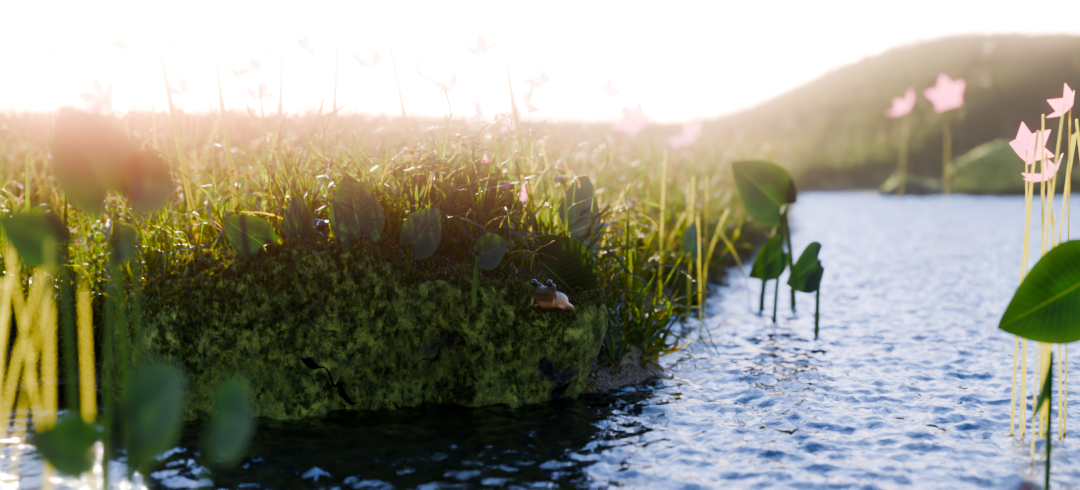
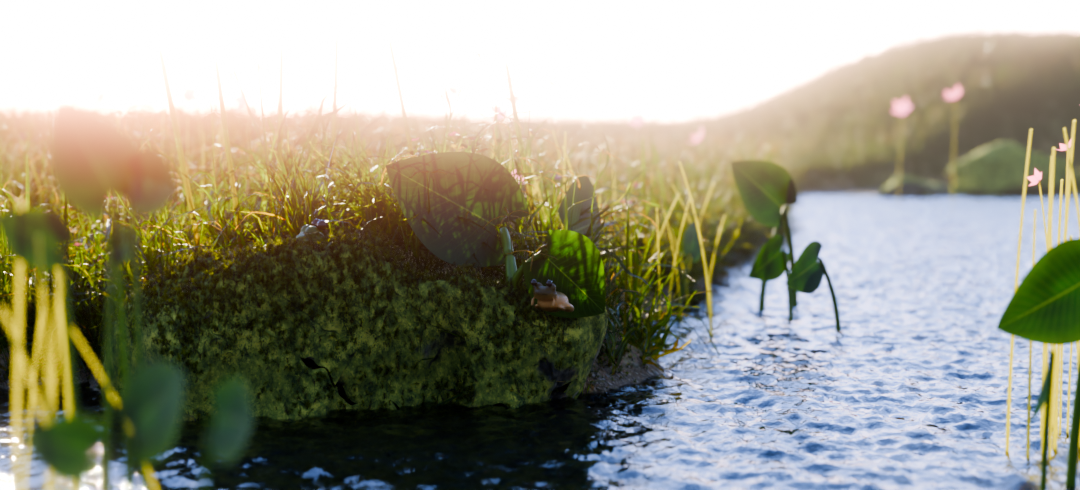
Creek scene: one taro plant with two big leaves on the rock, background flowers halved
Claude-Session: https://claude.ai/code/session_01K2jeMQuhDLuDxGG8CNrseQ

diff --git a/tools/creek/build_scene.py b/tools/creek/build_scene.py
@@ -836,9 +836,7 @@ TARO = [
     (265, 430, 0.42, 120, -15, 65),
     (60, 440, 0.4, 90, 160, 50),
     # centre, on the bank right of the rock
-    (445, 197, 1.2, 140, 150, 30),
     (630, 230, 1.15, 150, 5, 58),
-    (575, 290, 1.05, 110, -40, 20),
     (790, 270, 1.4, 70, 200, 60),
     # right, far side
     (755, 185, 1.6, 85, 140, 35),
@@ -916,7 +914,7 @@ for px, py, d in FLOWERS:
     base = Vector((head.x + rnd.uniform(-0.02, 0.02), head.y, 0))
     base.z = ground_below(base)
     flower(base, head.z - base.z, rnd.uniform(-0.02, 0.02), rnd.uniform(0, math.tau),
-           px_size(d) * rnd.uniform(18, 26))
+           px_size(d) * rnd.uniform(9, 13))
 
 # backlit yellow grass blades and stalks: (px range, py top range, distance range, count)
 REEDS = [((0, 85), (200, 330), (0.45, 0.6), 8), ((480, 570), (125, 205), (1.2, 1.4), 16),
@@ -1020,10 +1018,17 @@ p2 = unproject(553, 350, 0.98)
 frog("frog_top", on_rock(p1.x, p1.y), -70, 0.048, "frog_green_color.png")
 frog("frog_edge", on_rock(p2.x, p2.y), 150, 0.03, "frog_brown_color.png")
 
-# small taro sprouts growing out of the moss on top of the rock
-for args in ((355, 205, 1.0, 75, 100, 20), (430, 228, 1.0, 62, 45, 30), (245, 232, 0.98, 58, 145, 25),
-             (500, 250, 0.98, 50, 15, 35), (300, 215, 1.0, 48, 80, 40)):
-    taro(*args, lean=0.1, base_at=on_rock)
+# one taro plant growing out of the rock: a single stem base, two big leaves (as in the reference)
+_root = unproject(512, 318, 1.0)
+_root = on_rock(_root.x, _root.y + 0.02)
+taro(445, 197, 1.05, 150, 150, 25, lean=0.0, base_at=lambda gx, gy: _root)
+_, _lit = taro(582, 287, 1.0, 115, -40, 20, lean=0.0, base_at=lambda gx, gy: _root)
+# the right leaf glows yellow with the sun behind it
+_lit_mat = leaf_mat.copy()
+for _n in _lit_mat.node_tree.nodes:
+    if _n.type == "MATH" and _n.operation == "MULTIPLY":
+        _n.inputs[1].default_value = 0.8
+_lit.data.materials[0] = _lit_mat
 
 
 # ---------------------------------------------------------------- lights, world, camera
